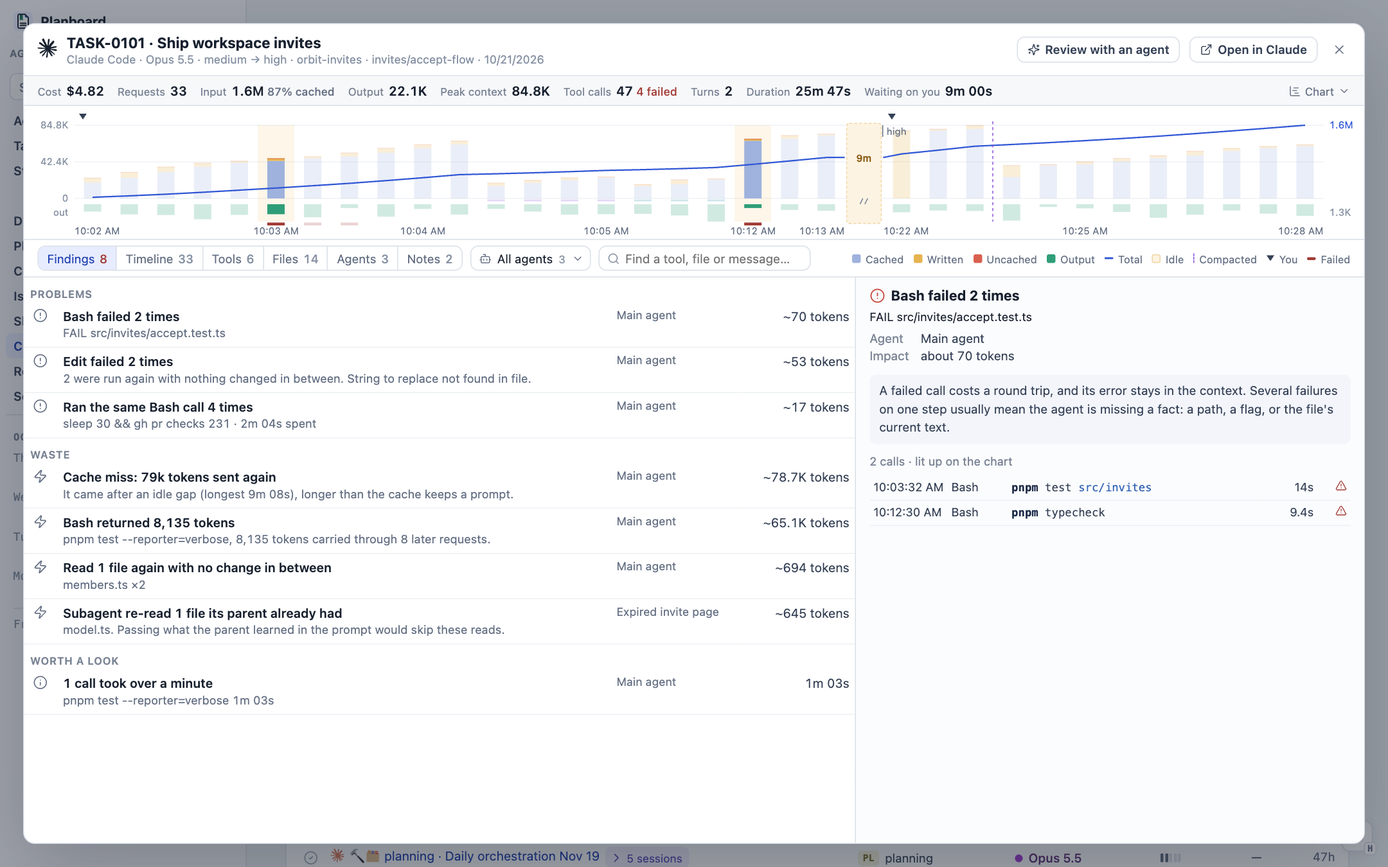
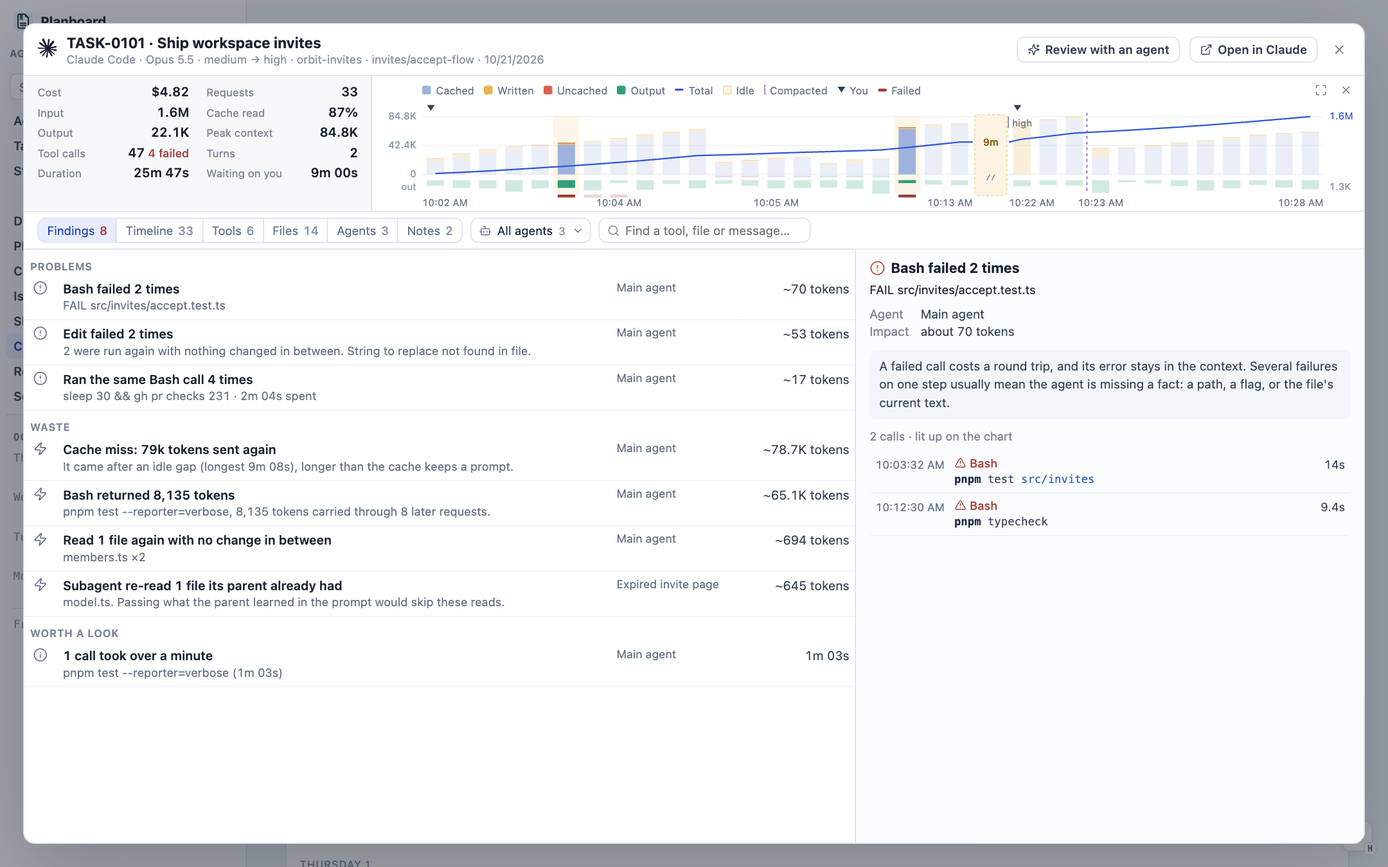
Session overlay: totals beside the chart, chart sizes, your-messages filter
- Totals sit in two columns beside a shorter chart (112px). The chart's own bar
  holds its key and buttons to widen it (full width, 200px) or hide it.
- The toolbar no longer wraps, so the findings chip can't add a line.
- "Your messages only" keeps just your messages, each with the agent's last
  word, and the inspector opens the turn.

diff --git a/public/session.js b/public/session.js
@@ -86,6 +86,8 @@ function argSummary(tool) {
   if (first !== undefined && first !== "") return home(Array.isArray(first) ? first.join(" ") : String(first)).replace(/\s+/g, " ");
   return home(JSON.stringify(args)).slice(0, 300);
 }
+// Markdown read as one line of plain text, for previews: no emphasis marks, code ticks or link targets.
+const plain = (text) => String(text ?? "").replace(/\[([^\]]*)\]\([^)]*\)/g, "$1").replace(/(\*\*|__|`|^#+\s*|^\s*[-*]\s+)/gm, "").replace(/\s+/g, " ").trim();
 const relative = (path) => { const root = data?.cwd ? `${data.cwd.replace(/\/$/, "")}/` : ""; return root && path.startsWith(root) ? path.slice(root.length) : home(path); };
 
 let dialog = null;
@@ -94,16 +96,17 @@ let notes = [];
 let notesPath = "";
 let found = [];
 let notify = () => {};
-let ui = { tab: "", agent: 0, pick: null, find: "", focus: null, menu: false };
+let ui = { tab: "", agent: 0, pick: null, find: "", focus: null, menu: false, only: false };
 export const setSessionNotice = (show) => { notify = show; };
-// The chart can fold away to give the lists the height; the choice is kept per browser.
+// The chart sits beside the totals (compact), spans the overlay taller (wide), or folds away (hidden); the choice is
+// kept per browser.
 const CHART_KEY = "plan-viewer:session-chart";
-const chartShown = () => { try { return localStorage.getItem(CHART_KEY) !== "0"; } catch { return true; } };
-const setChartShown = (shown) => { try { localStorage.setItem(CHART_KEY, shown ? "1" : "0"); } catch {} };
+const chartMode = () => { try { const value = localStorage.getItem(CHART_KEY); return value === "0" || value === "hidden" ? "hidden" : value === "wide" ? "wide" : "compact"; } catch { return "compact"; } };
+const setChartMode = (mode) => { try { localStorage.setItem(CHART_KEY, mode); } catch {} };
 
 export function openSession(key, { tab = "", agent = "", pick = "" } = {}) {
   if (!dialog) build();
-  ui = { tab: TABS[tab] ? tab : "", agent: agent === "all" ? -1 : Number(agent) || 0, pick: pick || null, find: "", focus: null, menu: false };
+  ui = { tab: TABS[tab] ? tab : "", agent: agent === "all" ? -1 : Number(agent) || 0, pick: pick || null, find: "", focus: null, menu: false, only: ui.only };
   dialog.dataset.key = key;
   setOverlayParams({ session: key });
   dialog.querySelector('[data-s="head"]').innerHTML = `<div class="session-title"><h3>Loading session…</h3></div><span class="code-spacer"></span>${closeButton()}`;
@@ -222,12 +225,17 @@ function render() {
     <a class="code-bar-button" href="${escapeHtml(data.url)}">${glyph("external-link")}Open in ${data.provider === "Claude" ? "Claude" : "Codex"}</a>${closeButton()}`;
   const agents = data.agents.length > 1 ? `<div class="session-agent" data-s="agent"></div>` : "";
   const legend = `<span class="session-legend" aria-label="Chart key"><span class="is-cached" data-tip="Prompt tokens read from the prompt cache">Cached</span><span class="is-write" data-tip="Prompt tokens written to the prompt cache">Written</span><span class="is-fresh" data-tip="Prompt tokens neither read from nor written to the cache">Uncached</span><span class="is-output">Output</span><span class="is-cumulative" data-tip="Running total of tokens processed">Total</span><span class="is-idle" data-tip="No request for longer than the 5-minute prompt cache">Idle</span><span class="is-compact">Compacted</span><span class="is-msg" data-tip="Your messages">You</span><span class="is-fail" data-tip="A failed tool call">Failed</span></span>`;
-  dialog.querySelector('[data-s="main"]').innerHTML = `<div class="session-stats"><span class="session-stat-list" data-s="stats"></span>
-      <button type="button" class="session-chart-toggle" data-s-chart aria-pressed="${chartShown()}" data-tip="Show or hide the chart">${glyph("chart-gantt")}Chart${glyph("chevron-right", "code-icon session-chevron")}</button></div>
-    <div class="session-chart" data-s="chart"${chartShown() ? "" : " hidden"}></div>
+  dialog.querySelector('[data-s="main"]').innerHTML = `<div class="session-top" data-s="top" data-chart="${chartMode()}">
+      <div class="session-stats"><span class="session-stat-list" data-s="stats"></span><button type="button" class="session-chart-button is-show" data-s-chart="compact" data-tip="Show the chart">${glyph("chart-gantt")}Chart</button></div>
+      <div class="session-chart-panel"><div class="session-chart-bar">${legend}<span class="code-spacer"></span>
+        <button type="button" class="session-chart-button" data-s-chart="wide" data-tip="Widen the chart" aria-label="Widen the chart">${glyph("maximize")}</button>
+        <button type="button" class="session-chart-button" data-s-chart="compact" data-tip="Put the chart beside the totals" aria-label="Put the chart beside the totals">${glyph("minimize")}</button>
+        <button type="button" class="session-chart-button" data-s-chart="hidden" data-tip="Hide the chart" aria-label="Hide the chart">${glyph("x")}</button></div>
+      <div class="session-chart" data-s="chart"></div></div></div>
     <div class="session-toolbar"><div class="code-segment" role="tablist" aria-label="View">${Object.entries(TABS).filter(([key]) => key !== "agents" || data.agents.length > 1).map(([key, label]) => `<button type="button" role="tab" data-s-tab="${key}" aria-pressed="${ui.tab === key}">${label}<span class="code-count" data-s-count="${key}"></span></button>`).join("")}</div>
       ${agents}<label class="code-filter">${glyph("search")}<input type="search" data-s-find placeholder="Find a tool, file or message…" aria-label="Find in this session" spellcheck="false"></label>
-      <span class="session-focus" data-s="focus"></span>${legend}</div>
+      <span class="session-focus" data-s="focus"></span><span class="code-spacer"></span>
+      <button type="button" class="session-only" data-s-only aria-pressed="false" data-tip="Show only your messages, each with the agent's last word" hidden>${glyph("user")}Your messages only</button></div>
     <div class="session-split"><div class="session-list" data-s="list"></div><aside class="session-inspector" data-s="inspector" aria-label="Details"></aside></div>`;
   renderBody();
 }
@@ -240,7 +248,8 @@ function renderBody() {
   dialog.querySelector('[data-s="stats"]').innerHTML = [
     stat("Cost", usd(all.cost), all.exactCost ? "Claude Code's own total for this session" : all.priced ? `Estimated from public API prices for ${all.priced} of ${all.requests} requests` : "No price is known for this model", all.cost !== null && !all.exactCost ? "estimate" : ""),
     stat("Requests", exact(all.requests)),
-    stat("Input", `${num(all.input)} <small>${pct(all.cached, all.input)} cached</small>`, `${exact(all.input)} prompt tokens: ${exact(all.cached)} read from cache, ${exact(all.write)} written to it, ${exact(all.input - all.cached - all.write)} uncached`),
+    stat("Input", num(all.input), `${exact(all.input)} prompt tokens: ${exact(all.cached)} read from cache, ${exact(all.write)} written to it, ${exact(all.input - all.cached - all.write)} uncached`),
+    stat("Cache read", pct(all.cached, all.input), `${exact(all.cached)} of ${exact(all.input)} prompt tokens came from the prompt cache`),
     stat("Output", num(all.output), `${exact(all.output)} output tokens, ${exact(all.reasoning)} of them reasoning`),
     stat("Peak context", num(all.peak), `The largest single prompt: ${exact(all.peak)} tokens`),
     stat("Tool calls", `${exact(all.tools)}${all.errors ? ` <em>${all.errors} failed</em>` : ""}`),
@@ -251,6 +260,9 @@ function renderBody() {
   for (const button of dialog.querySelectorAll("[data-s-tab]")) button.setAttribute("aria-pressed", String(button.dataset.sTab === ui.tab));
   const picker = dialog.querySelector('[data-s="agent"]');
   if (picker) picker.innerHTML = agentPicker();
+  const only = dialog.querySelector("[data-s-only]");
+  only.hidden = ui.tab !== "timeline";
+  only.setAttribute("aria-pressed", String(ui.only));
   const counts = { findings: view.findings.length, timeline: view.requests.length, tools: new Set(view.tools.map((tool) => tool.name)).size, files: fileRows(view.tools).length, agents: data.agents.length, notes: notes.length };
   for (const count of dialog.querySelectorAll("[data-s-count]")) {
     count.textContent = counts[count.dataset.sCount];
@@ -319,12 +331,12 @@ function pickAgent(index) {
 
 function drawChart() {
   const host = dialog.querySelector('[data-s="chart"]');
-  if (!host || host.hidden) return;
+  if (!host || chartMode() === "hidden") return;
   const { requests, messages, marks } = scope();
   const width = Math.max(320, host.clientWidth);
-  const height = 132;
+  const height = chartMode() === "wide" ? 200 : 112;
   const pad = { left: 44, right: 50, top: 16, bottom: 16 };
-  const outH = 18;
+  const outH = chartMode() === "wide" ? 26 : 14;
   const inH = height - pad.top - pad.bottom - outH - 6;
   const base = pad.top + inH;
   if (!requests.length) { host.innerHTML = `<p class="code-muted session-note">No model requests in this scope.</p>`; return; }
@@ -466,8 +478,11 @@ function timelineTable({ requests, tools, messages, marks }) {
       if (!matches(message.text)) return { t: message.t, order: 0, html: "" };
       const stats = turnStats(message, messages, requests, tools);
       const facts = [plural(stats.requests.length, "request"), plural(stats.calls.length, "call"), stats.failed && `<em>${stats.failed} failed</em>`, span(stats.ms), stats.cost !== null && usd(stats.cost)].filter(Boolean).join(" · ");
-      return { t: message.t, order: 0, html: `<tr class="code-row session-msg-row${ui.pick === `m${index}` ? " is-picked" : ""}" data-s-pick="m${index}" tabindex="0"><td class="session-num">${glyph("user")}</td><td class="session-time">${clock(message.t)}</td><td colspan="${width - 2}"><span class="session-turn"><b>Turn ${turn + 1}</b> · ${facts}</span><span class="session-msg-text">${escapeHtml(message.text)}</span></td></tr>` };
+      // With only your messages showing, each turn also shows the agent's last word, so the list reads as the conversation.
+      const reply = ui.only && stats.requests.findLast((request) => request.text);
+      return { t: message.t, order: 0, html: `<tr class="code-row session-msg-row${ui.pick === `m${index}` ? " is-picked" : ""}" data-s-pick="m${index}" tabindex="0"><td class="session-num">${glyph("user")}</td><td class="session-time">${clock(message.t)}</td><td colspan="${width - 2}"><span class="session-turn"><b>Turn ${turn + 1}</b> · ${facts}</span><span class="session-msg-text">${escapeHtml(message.text)}</span>${reply ? `<span class="session-reply">${glyph("bot")}${escapeHtml(plain(home(reply.text)))}</span>` : ""}</td></tr>` };
     }),
+    ...(ui.only ? [] : [
     ...marks.map((mark) => ({ t: mark.t, order: 1, html: `<tr class="session-mark-row is-${mark.kind}"><td class="session-num">${glyph(mark.kind === "compact" ? "layers" : "settings")}</td><td class="session-time">${clock(mark.t)}</td><td colspan="${width - 2}">${mark.kind === "compact" ? `Context compacted${mark.trigger ? ` (${escapeHtml(mark.trigger)})` : ""}${mark.before ? `: ${exact(mark.before)} → ${exact(mark.after || 0)} tokens` : ""}` : `${mark.kind === "model" ? "Model" : "Effort"} changed to <b>${escapeHtml(mark.kind === "model" ? modelName(mark.label) : mark.label)}</b>`}</td></tr>` })),
     // An idle stretch longer than the prompt cache, between two requests in scope.
     ...requests.slice(1).map((request, position) => {
@@ -497,7 +512,7 @@ function timelineTable({ requests, tools, messages, marks }) {
         <td class="session-n${cache < 0.5 ? " is-warn" : " is-soft"}">${pct(request.cached, request.input)}</td>
         <td class="session-n${fresh >= 20_000 ? " is-heavy" : " is-soft"}" data-tip="${exact(fresh)} tokens not read from cache">${num(fresh)}</td>
         <td class="session-n is-soft">${num(request.output)}</td></tr>` };
-    }),
+    })]),
   ].sort((a, b) => a.t - b.t || a.order - b.order).map((row) => row.html).join("");
   return `<table class="code-table session-table session-timeline"><thead><tr><th class="session-num">#</th><th>Time</th>${showAgent ? '<th class="session-agent-head">Agent</th>' : ""}<th>What the agent said and did</th><th class="session-n" data-tip="Prompt tokens: the context this request read">Context</th><th class="session-n" data-tip="Share of the prompt read from cache">Cache</th><th class="session-n" data-tip="Prompt tokens not read from cache">New</th><th class="session-n">Output</th></tr></thead><tbody>${rows || `<tr><td colspan="${width}" class="session-note">Nothing matches.</td></tr>`}</tbody></table>`;
 }
@@ -645,7 +660,8 @@ function markClamps(root) {
 
 function inspector(view) {
   const first = { findings: view.findings[0] && `x:${view.findings[0].id}`, tools: toolStats(view.tools)[0] && `t:${toolStats(view.tools)[0].name}`,
-    files: fileRows(view.tools)[0] && `f:${fileRows(view.tools)[0].path}`, notes: notes[0] && `n:${notes[0].id}` }[ui.tab];
+    files: fileRows(view.tools)[0] && `f:${fileRows(view.tools)[0].path}`, notes: notes[0] && `n:${notes[0].id}`,
+    timeline: ui.only && view.messages[0] ? `m${data.messages.indexOf(view.messages[0])}` : "" }[ui.tab];
   const pick = ui.pick || first || (view.requests[0] ? `r${view.requests[0].index}` : "");
   if (pick.startsWith("x:")) {
     const finding = found.find((item) => item.id === pick.slice(2));
@@ -722,14 +738,14 @@ function onClick(event) {
     return;
   }
   if (event.target.closest("[data-s-review]")) return review(event.target.closest("[data-s-review]"));
-  const toggle = event.target.closest("[data-s-chart]");
-  if (toggle) {
-    const shown = !chartShown();
-    setChartShown(shown);
-    toggle.setAttribute("aria-pressed", String(shown));
-    dialog.querySelector('[data-s="chart"]').hidden = !shown;
+  const size = event.target.closest("[data-s-chart]");
+  if (size) {
+    setChartMode(size.dataset.sChart);
+    dialog.querySelector('[data-s="top"]').dataset.chart = size.dataset.sChart;
+    hideTip();
     return drawChart();
   }
+  if (event.target.closest("[data-s-only]")) { ui.only = !ui.only; ui.pick = null; return renderBody(); }
   const agentPick = event.target.closest("[data-s-agent-pick]");
   if (agentPick) return pickAgent(Number(agentPick.dataset.sAgentPick));
   if (event.target.closest("[data-s-agent-button]")) return setMenu(!ui.menu);

diff --git a/public/styles.css b/public/styles.css
@@ -3868,19 +3868,36 @@ div.step-row { cursor: pointer; }
 .session-title h3 { overflow: hidden; text-overflow: ellipsis; white-space: nowrap; text-wrap: balance; }
 .session-head .code-bar-button { text-decoration: none; }
 .session-head .code-bar-button .code-icon { width: 13px; height: 13px; }
-.session-main { display: grid; grid-template-columns: minmax(0, 1fr); grid-template-rows: auto auto auto minmax(0, 1fr); min-width: 0; min-height: 0; }
+.session-main { display: grid; grid-template-columns: minmax(0, 1fr); grid-template-rows: auto auto minmax(0, 1fr); min-width: 0; min-height: 0; }
+.session-top { display: grid; grid-template-columns: minmax(0, 1fr); border-bottom: 1px solid var(--line); }
+.session-top[data-chart="compact"] { grid-template-columns: minmax(310px, 26%) minmax(0, 1fr); }
+.session-top[data-chart="hidden"] .session-chart-panel { display: none; }
+.session-top:not([data-chart="hidden"]) .session-chart-button.is-show { display: none; }
+.session-top[data-chart="wide"] [data-s-chart="wide"], .session-top[data-chart="compact"] [data-s-chart="compact"] { display: none; }
+.session-chart-panel { min-width: 0; }
+.session-chart-bar { display: flex; align-items: center; gap: 2px; min-height: 24px; padding: 2px 6px 0 52px; }
+.session-chart-button { display: inline-grid; grid-auto-flow: column; align-items: center; gap: 4px; height: 24px; min-width: 24px; border: 0; border-radius: 6px; background: none; padding: 0 5px; color: var(--muted); font-size: .72rem; transition: background-color 140ms, color 140ms; }
+.session-chart-button .code-icon { width: 13px; height: 13px; }
+@media (hover: hover) { .session-chart-button:hover { background: var(--quiet-field); color: var(--action-ink); } }
+.session-chart-button:active { transform: scale(.97); }
+.session-chart-button:focus-visible { outline: 2px solid var(--action); outline-offset: 1px; }
 .session-main > [hidden] { display: none; }
 .session-note { margin: 14px; color: var(--muted); font-size: .82rem; }
-.session-stats { display: flex; align-items: center; gap: 8px; padding: 3px 8px 3px 14px; border-bottom: 1px solid var(--line); background: var(--hover-field); }
+.session-stats { display: flex; align-items: center; gap: 8px; padding: 3px 8px 3px 14px; background: var(--hover-field); }
+.session-top:not([data-chart="compact"]) .session-stats { border-bottom: 1px solid var(--line); }
+.session-top[data-chart="hidden"] .session-stats { border-bottom: 0; }
+.session-top[data-chart="compact"] .session-stats { align-items: start; padding: 8px 14px; border-right: 1px solid var(--line); }
+.session-top[data-chart="compact"] .session-stat-list { display: grid; grid-template-columns: repeat(2, minmax(0, 1fr)); gap: 5px 18px; width: 100%; margin: 0; }
+.session-top[data-chart="compact"] .session-stat { justify-content: space-between; min-width: 0; }
+.session-top[data-chart="compact"] .session-stat small { overflow: hidden; text-overflow: ellipsis; }
 .session-stat-list { display: flex; flex-wrap: wrap; align-items: baseline; gap: 2px 14px; min-width: 0; margin-right: auto; }
-.session-stats .session-chart-toggle { flex: none; }
 .session-stat { display: inline-flex; align-items: baseline; gap: 5px; font-variant-numeric: tabular-nums; white-space: nowrap; }
 .session-stat small { color: var(--label-text); font-size: .7rem; }
 .session-stat b { color: var(--ink); font-size: .84rem; font-weight: 600; white-space: nowrap; }
 .session-stat b small { color: var(--muted); font-size: .72rem; font-weight: 500; }
 .session-stat b em { color: var(--danger); font-size: .74rem; font-style: normal; font-weight: 500; }
 .session-stat.is-estimate b::after { content: " est."; color: var(--quiet-text); font-size: .68rem; font-weight: 500; }
-.session-chart { position: relative; min-width: 0; overflow: hidden; padding: 4px 8px 2px; border-bottom: 1px solid var(--line); }
+.session-chart { position: relative; min-width: 0; overflow: hidden; padding: 0 8px 2px; }
 .session-chart svg { display: block; overflow: visible; }
 .session-grid { stroke: #edf0f4; }
 .session-axis { fill: var(--quiet-text); font-size: 10px; font-variant-numeric: tabular-nums; }
@@ -3899,16 +3916,8 @@ div.step-row { cursor: pointer; }
 .session-change line { stroke: var(--muted); }
 .session-change text { fill: var(--muted); font-size: 10px; }
 .session-msg { fill: var(--body-ink); cursor: pointer; }
-.session-legend { display: flex; flex-wrap: wrap; gap: 2px 10px; margin-left: auto; color: var(--muted); font-size: .68rem; }
-.session-main:has(.session-chart-toggle[aria-pressed="false"]) .session-legend { display: none; }
-.session-toolbar .session-legend { justify-content: flex-end; }
-.session-chart-toggle { display: inline-flex; align-items: center; gap: 4px; height: 24px; border: 0; border-radius: 6px; background: none; padding: 0 6px; color: var(--muted); font-size: .72rem; transition: background-color 140ms, color 140ms; }
-.session-chart-toggle .code-icon { width: 13px; height: 13px; }
+.session-legend { display: flex; flex-wrap: wrap; gap: 2px 10px; min-width: 0; color: var(--muted); font-size: .68rem; }
 .session-chevron { transform: rotate(90deg); transition: transform 160ms var(--ease-out, ease-out); }
-.session-chart-toggle[aria-pressed="false"] .session-chevron { transform: rotate(0deg); }
-@media (hover: hover) { .session-chart-toggle:hover { background: var(--quiet-field); color: var(--action-ink); } }
-.session-chart-toggle:active { transform: scale(.97); }
-.session-chart-toggle:focus-visible { outline: 2px solid var(--action); outline-offset: 1px; }
 .session-break rect { fill: #f4f5f8; stroke: #e3e6ec; stroke-dasharray: 3 2; }
 .session-break.is-cold rect { fill: #fdf3e2; stroke: #efd6a6; }
 .session-break path { stroke: var(--quiet-text); stroke-width: 1.2; }
@@ -3925,7 +3934,10 @@ div.step-row { cursor: pointer; }
 .session-legend .is-cumulative::before { height: 2px; background: var(--s-line); }
 .session-legend .is-compact::before { width: 0; height: 10px; border-left: 1px dashed var(--s-compact); border-radius: 0; background: none; }
 .session-legend .is-msg::before { width: 0; height: 0; border: 4px solid transparent; border-top: 6px solid var(--body-ink); border-bottom: 0; border-radius: 0; background: none; }
-.session-toolbar { display: flex; flex-wrap: wrap; align-items: center; gap: 8px; padding: 6px 14px; border-bottom: 1px solid var(--line); }
+.session-toolbar { display: flex; align-items: center; gap: 8px; min-width: 0; padding: 6px 14px; border-bottom: 1px solid var(--line); }
+.session-toolbar > * { flex: none; }
+.session-toolbar .session-focus { flex: 0 1 auto; min-width: 140px; }
+.session-toolbar .code-filter { min-width: 130px; }
 .session-toolbar .code-filter { height: 26px; flex: 0 1 220px; }
 .session-toolbar .code-filter input { width: 100%; min-width: 0; border: 0; outline: 0; background: none; font-size: .8rem; }
 .session-toolbar .code-segment .code-count { margin-left: 5px; }
@@ -4081,7 +4093,8 @@ div.session-calls { display: grid; }
 .session-toolbar .code-segment .code-count.is-alert { color: var(--danger); }
 .session-focus { display: inline-flex; align-items: center; gap: 4px; min-width: 0; color: var(--body-ink); font-size: .76rem; }
 .session-focus:empty { display: none; }
-.session-focus > span { display: inline-flex; align-items: center; gap: 5px; min-width: 0; max-width: 360px; overflow: hidden; text-overflow: ellipsis; white-space: nowrap; }
+.session-focus > span { display: block; min-width: 0; overflow: hidden; text-overflow: ellipsis; white-space: nowrap; }
+.session-focus > span > .code-icon { margin-right: 5px; vertical-align: -2px; }
 .session-focus .code-icon { width: 13px; height: 13px; flex: none; color: var(--s-waste); }
 .session-table tr.is-hit td { background: var(--s-hit); }
 .session-table tr.is-hit.is-picked td { background: var(--selected); }
@@ -4145,6 +4158,10 @@ div.session-calls { display: grid; }
 @media (hover: hover) { .session-finding-link:hover { background: #fdebc4; } }
 .session-finding-link:focus-visible { outline: 2px solid var(--action); outline-offset: 1px; }
 @media (max-width: 900px) {
+  .session-top[data-chart="compact"] { grid-template-columns: minmax(0, 1fr); }
+  .session-top[data-chart="compact"] .session-stats { border-right: 0; border-bottom: 1px solid var(--line); padding: 3px 14px; }
+  .session-top[data-chart="compact"] .session-stat-list { display: flex; flex-wrap: wrap; gap: 2px 14px; }
+  .session-toolbar { flex-wrap: wrap; }
   .session-split { grid-template-columns: minmax(0, 1fr); grid-template-rows: minmax(0, 1fr) minmax(0, 45%); }
   .session-inspector { border-left: 0; border-top: 1px solid var(--line); }
   .session-overview .code-bar-button { padding-inline: 7px; }
@@ -4156,5 +4173,14 @@ div.session-calls { display: grid; }
   .session-toolbar .code-segment { max-width: 100%; }
   .session-toolbar .code-segment button { padding-inline: 7px; font-size: .74rem; }
   .session-toolbar .code-segment .code-count:not(.is-alert) { display: none; }
-  .session-findings .session-agent-cell, .session-focus, .session-toolbar .session-legend { display: none; }
+  .session-findings .session-agent-cell, .session-focus, .session-chart-bar .session-legend { display: none; }
 }
+.session-only { display: inline-flex; align-items: center; gap: 5px; height: 26px; border: 1px solid var(--line); border-radius: 8px; background: var(--paper); padding: 0 8px; color: var(--muted); font-size: .76rem; transition: background-color 140ms, color 140ms, border-color 140ms; }
+.session-only .code-icon { width: 13px; height: 13px; }
+.session-only[hidden] { display: none; }
+.session-only[aria-pressed="true"] { border-color: transparent; background: var(--selected); color: var(--action-ink, #3157d5); }
+@media (hover: hover) { .session-only:hover { background: var(--hover-field); } .session-only[aria-pressed="true"]:hover { background: var(--selected); } }
+.session-only:active { transform: scale(.97); }
+.session-only:focus-visible { outline: 2px solid var(--action); outline-offset: 1px; }
+.session-reply { display: -webkit-box; -webkit-box-orient: vertical; -webkit-line-clamp: 2; overflow: hidden; margin-top: 4px; color: var(--body-ink); font-size: .8rem; line-height: 1.42; text-wrap: pretty; }
+.session-reply .code-icon { width: 13px; height: 13px; margin-right: 5px; vertical-align: -2px; color: var(--muted); }

diff --git a/site/index.html b/site/index.html
@@ -452,8 +452,8 @@ status: active
   <figure><a href="images/session.webp"><img src="images/session.webp" loading="lazy" width="2160" height="1350" alt="Session analysis of a Claude Code session on its Findings tab"></a><figcaption>A fictional Claude Code session; the overlay reads only your own machine's logs.</figcaption></figure>
   <dl class="parts">
     <dt>Findings</dt><dd>Failed calls and blind retries, polling loops, files read again, subagents re-reading what their parent had, large results carried through later requests, cache misses after idle gaps, and slow calls. Worst first, each with a token estimate and what usually does better.</dd>
-    <dt>Chart</dt><dd>A bar per request: cache read, cache write and uncached input stacked, output below the axis, and a running total. Marks show compactions, your messages, model or effort changes and failed calls. An idle gap longer than the prompt cache breaks the bars and names its length, with clock times on both sides. A selected finding lights up its requests. Hide the chart to give the lists the room.</dd>
-    <dt>Timeline</dt><dd>Each of your messages heads a turn with its requests, calls, failures, time and cost; below it, what the agent said before each step and the tools it called, with each tool's kind and what it touched: the programs a shell call ran, a file's name, a pattern.</dd>
+    <dt>Chart</dt><dd>A bar per request: cache read, cache write and uncached input stacked, output below the axis, and a running total. Marks show compactions, your messages, model or effort changes and failed calls. An idle gap longer than the prompt cache breaks the bars and names its length, with clock times on both sides. A selected finding lights up its requests. The chart sits beside the totals; widen it for a taller plot or hide it to give the lists the room.</dd>
+    <dt>Timeline</dt><dd>Each of your messages heads a turn with its requests, calls, failures, time and cost; below it, what the agent said before each step and the tools it called, with each tool's kind and what it touched: the programs a shell call ran, a file's name, a pattern. <strong>Your messages only</strong> reads it as the conversation.</dd>
     <dt>Tools, Files, Agents</dt><dd>Calls, failures, time and result tokens per tool; reads, edits and writes per file; and each agent's activity on one clock with its cost and findings. The agent menu describes every subagent the same way. Shell commands show one statement per line, colored.</dd>
     <dt>Notes and review</dt><dd>Note any tool call (what was it for, what would have been better); notes are saved in the workspace. <strong>Review with an agent</strong> turns the findings and notes into a prompt that asks for lasting fixes.</dd>
   </dl>

diff --git a/docs/guide.md b/docs/guide.md
@@ -55,8 +55,8 @@ The list shows every live thread and the 50 most recent finished top-level threa
 The session overlay reads one Codex or Claude Code session's log in full, so you can see what the agents did, where the tokens and time went, and what went wrong. Open it from a thread's **Tokens** number on Chat Threads, or from the chart button beside a Codex or Claude Code chat link in a document (a task's `## Chats` list, for example). The URL keeps it open: `?session=claude:<session id>` or `?session=codex:<thread id>`, with `session-tab`, `session-agent` and `session-pick` for the tab, agent and selected row.
 
 - **Header.** The session's title, the models and effort levels it used in order (`Opus 5.5 · medium → high`), its folder, branch and start time, **Review with an agent**, and **Open in Claude** or **Open in Codex**.
-- **Totals.** One line: cost, requests, input with the share read from the prompt cache, output, the largest single prompt, tool calls with failures, turns (messages you typed), duration, and **Waiting on you**: the time between the agent's last step and your next message. Cost is Claude Code's own total when the transcript has one; otherwise it is an estimate from public API prices, marked **est.**, and a dash when the model has no known price. Hover a number for the exact count. **Chart** at the end of the line hides the chart and its key to give the lists the height; the choice is kept in this browser.
-- **Chart.** One bar per model request, in order: the prompt stacked as cache read, cache write and uncached input, with output below the axis on its own scale. A blue line traces the running total of tokens. A dashed purple rule marks each compaction, a triangle on top marks each message you typed, a short label marks a model or effort change, and a red tick under a bar marks a failed call. A dotted line shows Codex's context window when the prompts come near it. When no request ran for longer than the 5-minute prompt cache, the bars break with a hatched gap that names its length (`9m`, `4h12m`): amber when the next request had to write the context again, gray when the cache held. Clock labels sit at both ends of the chart and on both sides of every break, so a jump in time reads as one. Every bar in **All agents** carries its agent's color at its foot. The key sits at the right of the toolbar. Hover a bar for its numbers and what the agent said; click it to select that request in the timeline. While a finding is selected, its requests stay lit and the rest dim.
+- **Totals.** Beside the chart, in two columns: cost, requests, input, the share read from the prompt cache, output, the largest single prompt, tool calls with failures, turns (messages you typed), duration, and **Waiting on you**: the time between the agent's last step and your next message. Cost is Claude Code's own total when the transcript has one; otherwise it is an estimate from public API prices, marked **est.**, and a dash when the model has no known price. Hover a number for the exact count. The buttons at the chart's top right widen it to the full width and a taller plot (the totals go on one line above it), put it back beside the totals, or hide it (then **Chart** at the end of the totals line shows it again). The choice is kept in this browser.
+- **Chart.** One bar per model request, in order: the prompt stacked as cache read, cache write and uncached input, with output below the axis on its own scale. A blue line traces the running total of tokens. A dashed purple rule marks each compaction, a triangle on top marks each message you typed, a short label marks a model or effort change, and a red tick under a bar marks a failed call. A dotted line shows Codex's context window when the prompts come near it. When no request ran for longer than the 5-minute prompt cache, the bars break with a hatched gap that names its length (`9m`, `4h12m`): amber when the next request had to write the context again, gray when the cache held. Clock labels sit at both ends of the chart and on both sides of every break, so a jump in time reads as one. Every bar in **All agents** carries its agent's color at its foot. The key sits above the plot. Hover a bar for its numbers and what the agent said; click it to select that request in the timeline. While a finding is selected, its requests stay lit and the rest dim.
 - **Findings.** The tab the overlay opens on when it finds something, grouped as Problems, Waste and Worth a look, each with a token estimate (characters ÷ 4, counted again for every later request that carried them):
   - a tool that failed, and whether it was run again with nothing changed in between;
   - the same call three or more times in a row with no edit between them (polling, or a loop);
@@ -66,7 +66,7 @@ The session overlay reads one Codex or Claude Code session's log in full, so you
   - calls that took over a minute, and a context near its window.
 
   A finding's detail shows two lines in the list and four in the inspector, with **More** when it runs longer; calls are named by their command (without a leading `cd`), file, pattern or title, never raw arguments, and slow calls list the slowest first. Select a finding to see what it means and what usually does better, with its calls (in the same two-line form as on the Tools tab); click a call to see it in the timeline, where the finding's rows stay tinted until you clear it with × in the toolbar.
-- **Timeline.** Your messages head each turn in larger type on a blue tint, with the turn's requests, calls, failures, time and cost above. Below each, requests in time order with what the agent said before acting, then the tools it called, each with an icon for its kind (read, edit, shell, search, subagent, web, MCP), a count for repeats, and what it touched in monospace: the programs a shell call ran (`git head tail`, leaving out `cd`), a file's name, or a search pattern. A red alert marks a failure and a pen a call you noted. The numbers are the prompt size, the share read from cache, new input and output; the cache share turns amber and bold under 50%, and new input over 20k is bold. Compactions, model or effort changes, and idle gaps longer than the prompt cache (striped, amber when the cache expired) sit between them. In **All agents**, each row names its agent with that agent's color.
+- **Timeline.** Your messages head each turn in larger type on a blue tint, with the turn's requests, calls, failures, time and cost above. Below each, requests in time order with what the agent said before acting, then the tools it called, each with an icon for its kind (read, edit, shell, search, subagent, web, MCP), a count for repeats, and what it touched in monospace: the programs a shell call ran (`git head tail`, leaving out `cd`), a file's name, or a search pattern. A red alert marks a failure and a pen a call you noted. The numbers are the prompt size, the share read from cache, new input and output; the cache share turns amber and bold under 50%, and new input over 20k is bold. Compactions, model or effort changes, and idle gaps longer than the prompt cache (striped, amber when the cache expired) sit between them. In **All agents**, each row names its agent with that agent's color. **Your messages only**, at the right of the toolbar on this tab, keeps just your messages, each with the agent's last word for that turn, so the list reads as the conversation; the inspector shows the selected turn.
 - **Tools.** One row per tool: calls, failures, total, median and longest time from call to result, and the tokens its results returned, with a bar for comparison. Select a tool to list every call. Each call is two lines: the time, tool and duration, then what it ran, cut to two lines with **More** to read the rest. A shell call's leading `cd` shows as "in <folder>" beside the tool, and its command is formatted and colored as in the inspector.
 - **Files.** Every file a tool read, edited or wrote, with counts per action, how many agents touched it, and when it was last touched. A file read more than once without a change is marked.
 - **Agents.** The main agent and each subagent with its model, a strip of its activity on the session's clock (one tick per request), requests, cost, tool calls, findings and duration. Click one to scope the whole overlay to it. The agent button in the toolbar does the same: it names the agent in scope (and how many subagents there are), and its menu lists the main agent, then each subagent with its description, kind and model, requests, calls, failures, duration and cost, and a bar of when it ran on the session's clock. Up and Down move through the menu, Enter picks, and Esc closes only the menu. **All agents** mixes them in time order (subagent bars show lighter). A spawning call in the inspector has **Open subagent**.

diff --git a/.changeset/the-session-overlay-gives-the-lists-more-room-to.md b/.changeset/the-session-overlay-gives-the-lists-more-room-to.md
@@ -2,4 +2,4 @@
 "planboard": patch
 ---
 
-The session overlay gives the lists more room: totals on one line, a shorter chart you can hide, and the chart key in the toolbar. Idle gaps longer than the prompt cache break the chart and the timeline, with clock times on both sides. The timeline shows each tool's kind and what it touched, your messages stand out, and the agent menu describes every subagent. Shell commands are split into statements and colored.
+The session overlay gives the lists more room: the totals sit beside a shorter chart that you can widen or hide. Call lists preview two lines with More, and the timeline can show only your messages. Idle gaps longer than the prompt cache break the chart and the timeline, with clock times on both sides. The timeline shows each tool's kind and what it touched, your messages stand out, and the agent menu describes every subagent. Shell commands are split into statements and colored.
